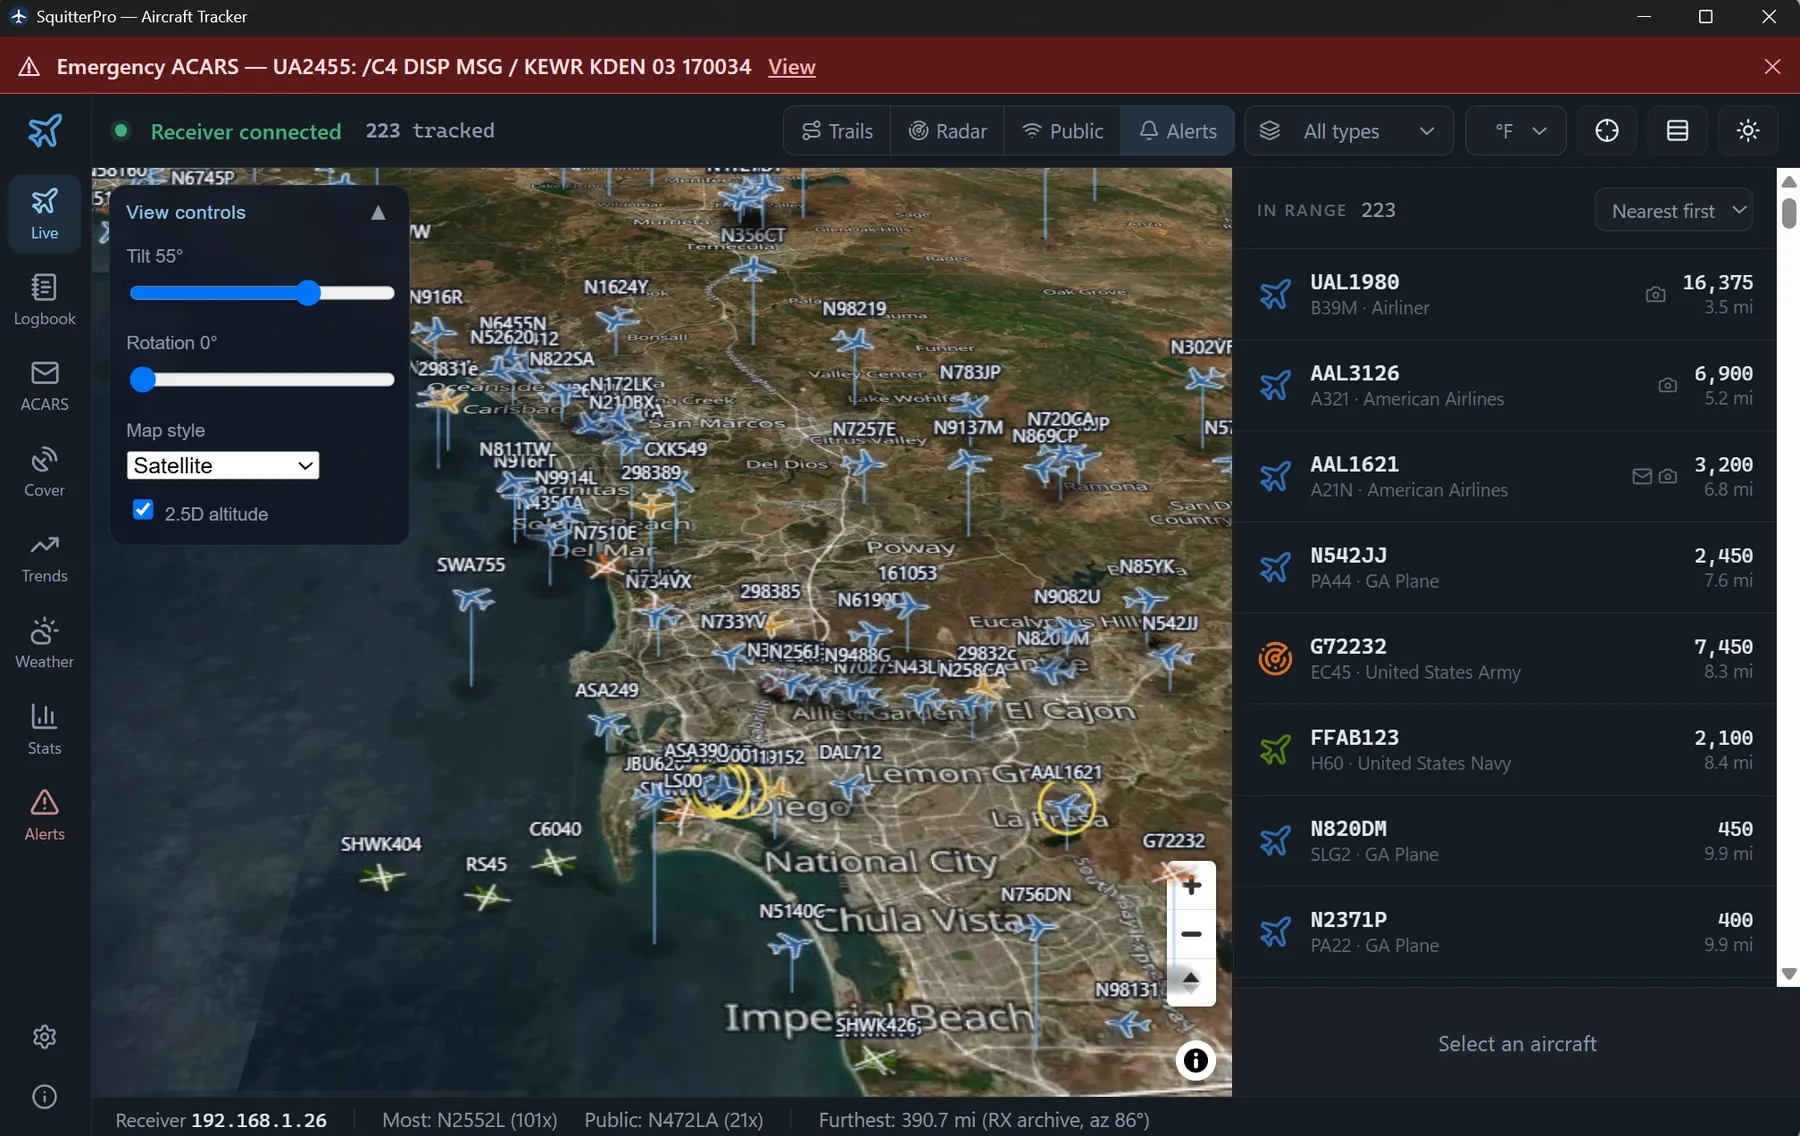
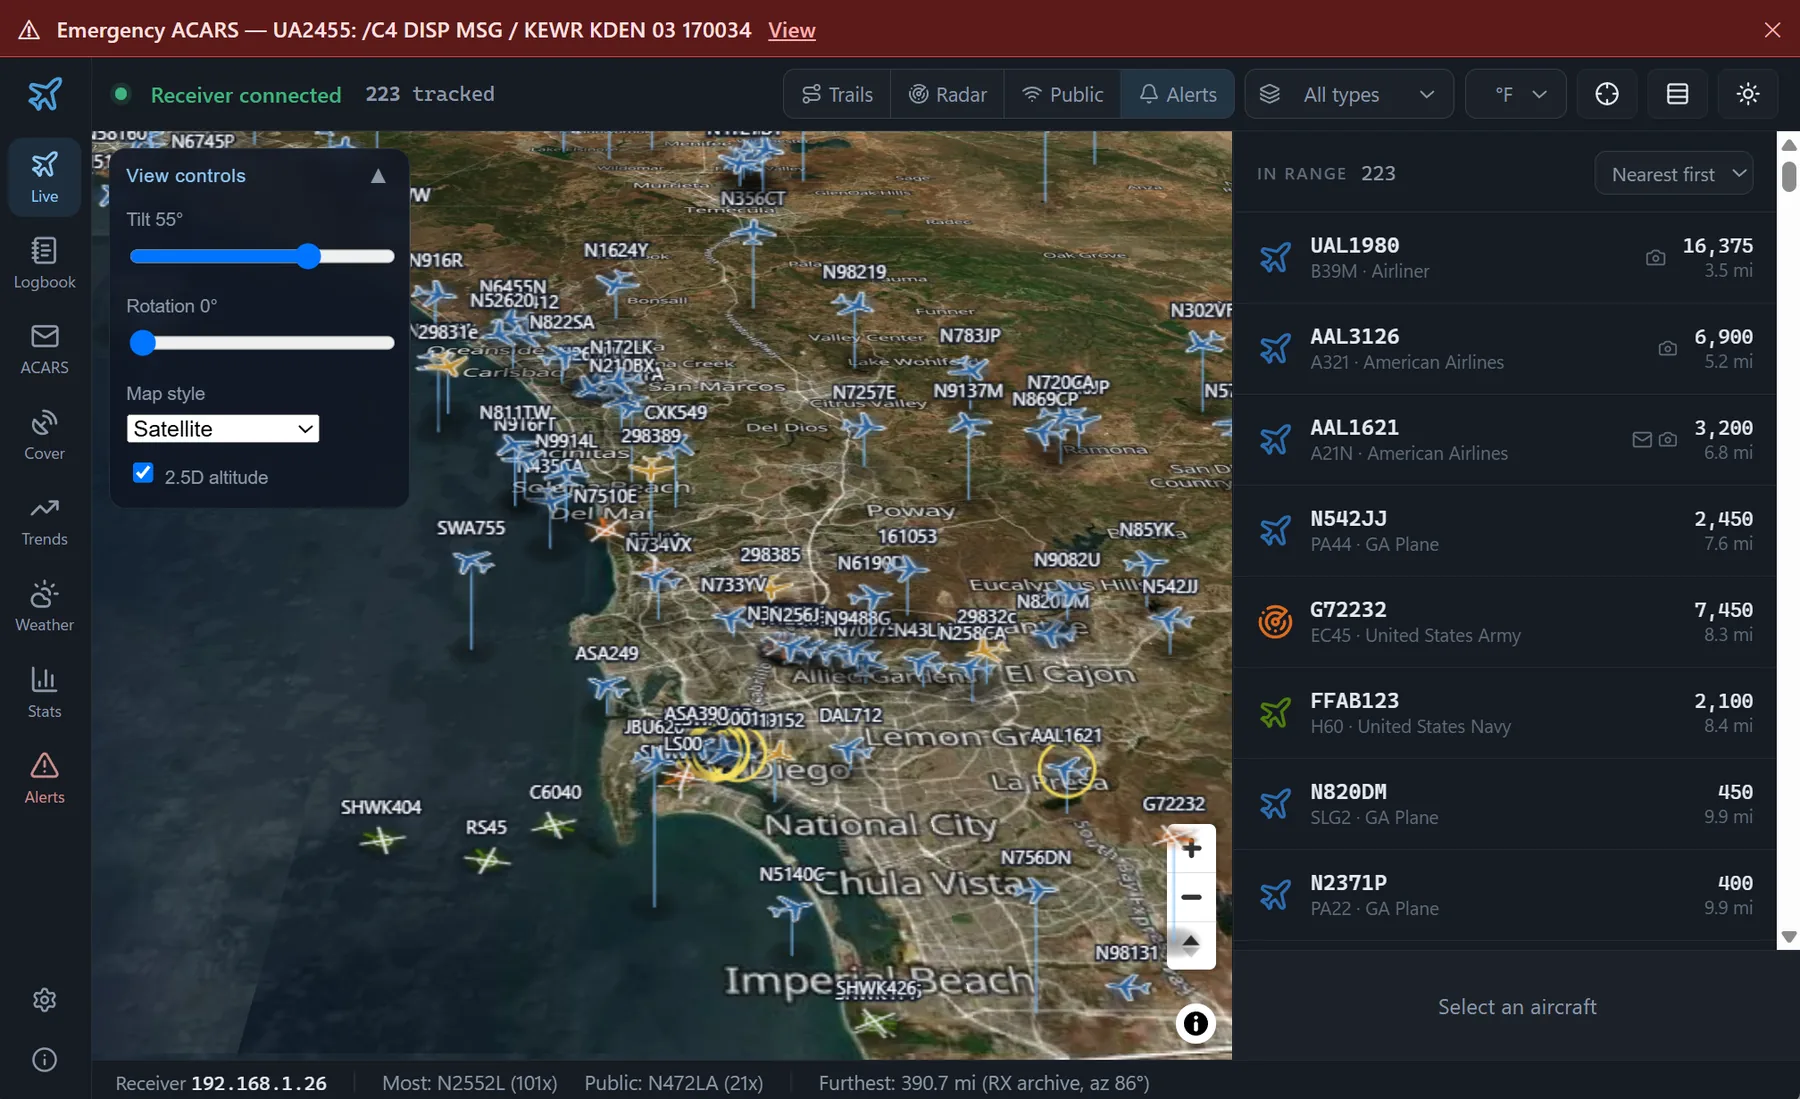
Crop the Windows title bar out of the hero screenshot
A marketing shot should be the product, not the operating system around it.
The crop row is found by detecting where the alert banner begins rather than
hardcoding a chrome height, so it cannot leave a sliver behind.

The red emergency banner stays: that is the app, and it is the thing worth
showing.

diff --git a/index.html b/index.html
@@ -167,7 +167,7 @@
 <section style="padding-top:44px">
   <div class="wrap hero-shot">
     <img class="shot" src="img/hero.webp" loading="lazy" decoding="async"
-      width="1800" height="1136"
+      width="1800" height="1099"
       alt="SquitterPro tracking 223 aircraft over San Diego in 2.5-D, each on a stem at its true altitude over satellite terrain, with an emergency ACARS alert across the top">
     <div class="shot-cap">Your local airspace in 2.5-D. Every aircraft sits on a stem at its true altitude, over satellite terrain.</div>
     <div class="namebox">
